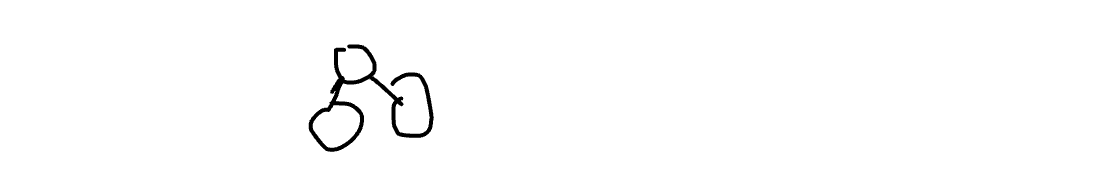
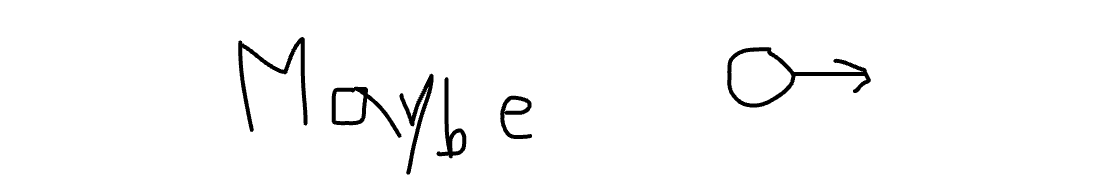
sketches

Changed region(s): [[0.2129, 0.1837, 0.4866, 0.8571], [0.6386, 0.2143, 0.7907, 0.551]]

diff --git a/server/app/web/simulations.py b/server/app/web/simulations.py
@@ -458,7 +458,10 @@ async def process_simulation_message_websocket(
                 chat_id=chat_id,
                 file_path="",
             )
-
+            db_session.add(sketch)
+            db_session.commit()
+            db_session.refresh(sketch)
+            
             # persist the sketch to the file system
             sketch_file_path = os.path.join(SKETCH_FOLDER, f"{sketch.id}.png")
             with open(sketch_file_path, "wb") as f: